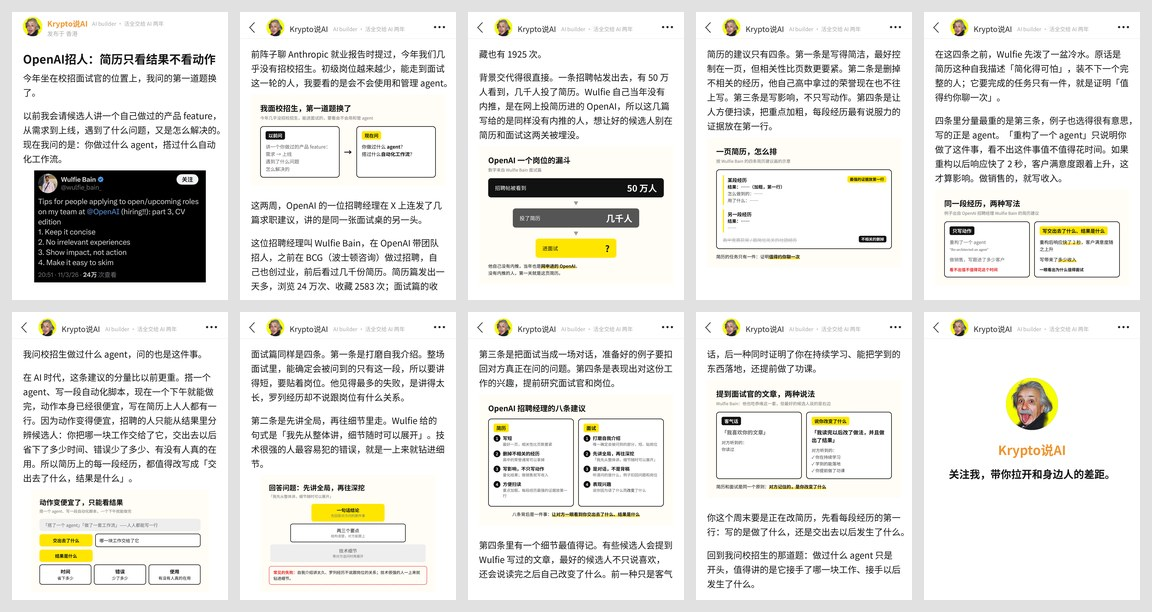
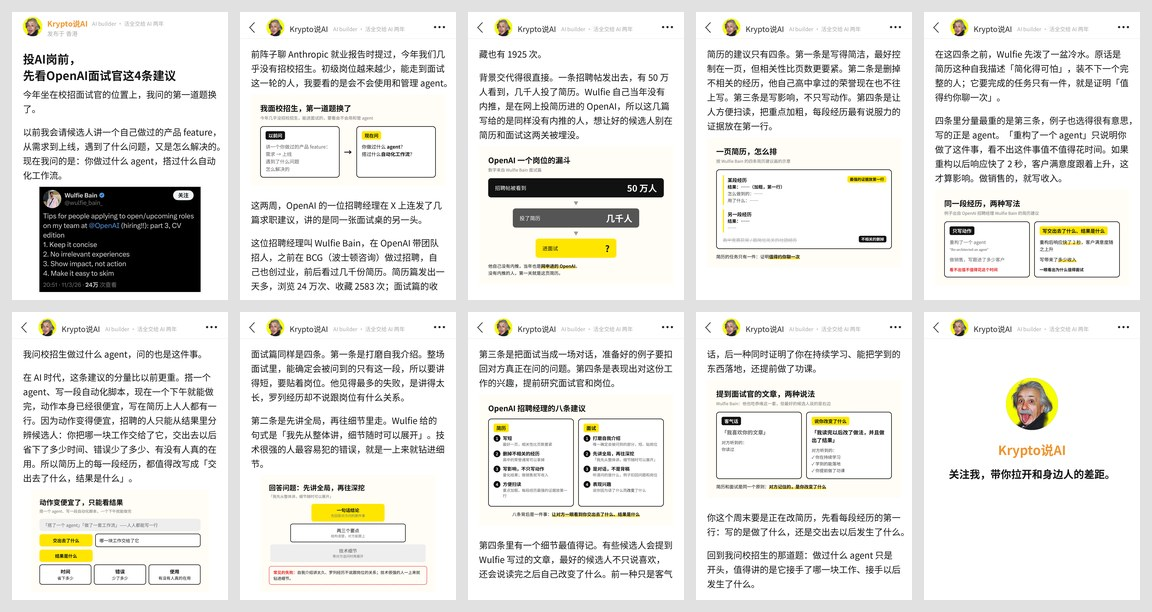
OpenAI 招聘建议稿：标题和首页 headline 改为「投AI岗前，先看OpenAI面试官这4条建议」
Claude-Session: https://claude.ai/code/session_01NaeRTdeFPRXkVgXK6PRjPx

Changed region(s): [[0.0, 0.0621, 0.1875, 0.4967]]

diff --git a/CLAUDE.md b/CLAUDE.md
@@ -8,7 +8,7 @@
 - **11-03 Claude 团队片和 FOMO 片的视频封面按新样式重做**（用户：主页上视频封面要和图文统一）：样式做成 `skills/vibe-knowledge-film/scripts/cover.py`（spec.json → 1080×1440），出了 `发布/2026-11-02_claude-code-team/封面_新版.png`（主画面 hook.jpg，看点：只给目标 / 功能随时准备删 / 人只看大局）和 `发布/2026-10-30_fomo-film/封面_新版.png`（主画面 15 秒沙发帧，看点：1 扇窗 vs 20 扇 / 全片 vs 预告片 / 错过会被记成亏了）。FOMO `film.js` 加了 `?clean` 和导出音效时跳过画面，全片在云端重渲（bgm.py 168.6 25.2 … 152.6 + mix.py）。Claude 团队片的 5 段原片和复刻音色旁白不在仓库里（mp4 / 音频不进 git），云端重渲不了，要成片得用户从之前收到的文件里发
 - **11-03 ADHD 知识短片《手电筒》（`/vibe-knowledge-film` 改造后第一条，60 秒横屏 1920×1080，A 鎏金，无配乐只有合成音效，`发布/2026-11-03_adhd-film/`）**：用户先定竖屏、随后改横屏，「先不加配乐」（`meta.drone: 0`）。一个故事：黑屋、书桌、一支手电筒（= 注意力），能锁在游戏上四小时（超专注），却照不到下周的截止日期，直到只剩一晚才掉进光里。顶部钩子行「ADHD：注意力真的不够吗？」，0 秒大字「注意力缺陷？」，7s「你猜？」，33s 截止卡变红（hit），40s 两个侧脸前额按年龄亮起（Shaw 2007：7.5 vs 10.5 岁），44s 20 支小手电筒一支乱晃（约 5%，Polanczyk 2007），47s 截止卡拆成三张小卡、「今晚：只写一段」滑进光里，51s 回到书桌，结尾「你不是不够努力，只是比别人晚一点看见。」。事实表 `facts.md`，分镜 `storyboard.md`（旧 2 分钟版 `storyboard_v1_2分钟旧规矩.md`），工程 `project/film.js`。9 帧拼图改了三轮（光柱压字幕线 → 手电筒挪到右侧中间；桌上物件的亮区用错了光圈；截止卡远处看不出红；脑图填充太快；小卡压字幕；结尾文献撞字幕）。**用户看第一版（11-03）**：开头沙沙声太强 → 是引擎底噪 `air` 在 drone 0 时没关、响度归一又抬了约 20 dB，已在 `skills/vibe-knowledge-film/engine/audio.py` 修（drone 0 时底噪关、只限峰）；要「更高级酷炫的特效展示 ADHD 原理」→ 第二版加 `project/fx.js`：体积光 + 尘埃 + 镜头光晕、分心物的红色波纹和发光触须、光柱被扳走时甩弯、超专注隧道视野和时间流线、日历景深和残影、截止卡撞进光里的冲击波 / 火星 / 抖动 / 色差、头里的神经网和成熟波、截止卡碎成 24 片再收拢成三张小卡、换场漏光（对照表在 storyboard.md「第二版」）。**封面（11-03）**：先做暗金竖版（`封面_暗金版.png`），用户看主页后定「视频封面要和图文封面风格尽可能相似，不然主页很乱」；先试了直接用 render_meme 首页（`封面_图文风格/`），用户又说「不必完全一样，可以有些不同，但整体风格要相似、不要突兀对比」→ 定稿 `封面.png`（`封面素材/cover_white.html`）：白底、页头和图文完全一致、黑色加粗大标题 + 品牌黄荧光笔、一行副题、大张片中画面带播放键和时长、三张看点小图配黑字。规则写进 vibe-knowledge-film SKILL「简报」第 5 条，以后视频封面都按这个家族出
 - **11-03 改造 `/vibe-knowledge-film`（用户给了一份「代码生成视频」简报，定为默认做法，原文在 `skills/vibe-knowledge-film/references/prompts.md` 第〇节，执行口径在 SKILL.md「简报」）**：默认 60 秒、直接交付 mp4、不停下来等确认、每阶段报进展；横屏 1920×1080 和竖屏 1080×1920 都支持（`new_film.py --portrait`，竖屏版式在 worlds.md 文末）；只讲透一个最反常识的真实故事；0–2 秒钩子大字第 0 帧就满亮（`K.headline`）、顶部常驻钩子行（`K.hookBar`）、每 10–15 秒一个转折 /「你猜？」、结尾一句触动人心；场景分前中背三层（`K.depth`）；3D 用 Three.js（`get_fonts.py --three` + `new_film.py --three`，`K.three`）；外观恢复 A 鎏金（电影感暗金）并设为默认，B 寓言、C 夜曲保留；配乐：用户的曲子用 `engine/beat.py` 测 BPM / 第一拍、按小节取整片长、从乐句开头截，`audio.py --from` 截取 + 结尾淡出；没有曲子用 `engine/score.py` 按 `meta.music`（默认 120 BPM、段落强弱、揭晓 drop）合成；音效加 `hit` / `whoosh` / `ping`，混音最后 `alimiter` 限峰；逐帧导出 jpg、`--sheet` 默认 9 帧 3×3 自查至少两轮；`scripts/deliver.py` 出总览图 + 源码 zip 并查 H.264 / AAC / 30fps。`render.py` 自动用云端 Chromium。冒烟测试：竖屏鎏金 + Three.js 立方体 + 合成配乐 8 秒片全流程通过（峰值 −1.2 dBFS），原 `fold_C` 横屏样片重渲一致、`--det` 通过。改动清单在 `INSTALL_NOTES.md`。ADHD 片见下一条
-- **11-04 OpenAI 招聘建议稿（meme-v2 第 11 篇，观察，价值信息 + 框架，`发布/2026-11-04_openai-hiring-tips/meme-v2版/`，7 页 + 名片卡，待用户看）**：素材是 OpenAI 招聘经理 Wulfie Bain 的 X 求职建议（简历篇 16.7 万浏览 1937 收藏、面试篇 1925 收藏；招聘帖 50 万人看到、几千人投，本人网申进的 OpenAI）。先问走了，用户答：价值是信息（OpenAI 怎么筛人）+ 框架（简历和面试的基本原则）；**「长期立场」不适用这篇**（front matter 写 `stance_line: 无`，meme-v2 check.py 放行「无」）；要强调的判断「AI 时代应该写你交出去了什么、结果是什么」。第 ①②⑥ 问没答，「我」用经历库 #26（校招面试题从 feature 全流程换成做过什么 agent），起法是自己工作里正在发生的事（上一篇是原话），开头、中段一句「问的也是这件事」、结尾回扣三次，回指 Anthropic 就业报告。图：`compare.png`（只写动作 vs 写交出去和结果，例子来自原文 agent / 销售）当首页图、`rules.png`（简历四条 + 面试四条）。check.py 0 ✗ 3 ⚠（1148 字差 52、图数把首页图没算进去、标题备选句式提示）。标题「OpenAI招人：简历只看结果不看动作」，备选「强烈建议投AI岗前看看OpenAI这篇。」「OpenAI一个岗位，50万人看到」。正文.txt 领取物是简历改写三行模板。日志 #11。**用户 11-04 发来简历篇推文截图（24 万查看、2583 收藏）要求放首页** → `编辑用/tweet.jpg` 当 hero（`hero_after: 1`、`hero_max: 820`），`compare.png` 挪进正文第三条之后，正文里的浏览 / 收藏数按截图更新，8 页，前一版存 `draft_v1_首页对照卡.md`。用户再改：截图下面截掉一点、首页要有文字 + 截图 → 截图裁掉「显示翻译」、空行、「Some (pretty cool) roles…」和互动栏，只留头像、四条建议、查看数；第二段在「自动化工作流。」后断开，首页 = 标题 + 两段 + 截图（`hero_after: 2`、`hero_max: 560`）。**用户再定：前几页没图的要补可视化、标题要更有钩子** → 新加 `question.png`（面试题以前问 / 现在问）、`funnel.png`（50 万看到 → 几千人投 → 进面试）、`cv.png`（一页简历怎么排）、`result.png`（动作变便宜，只能看交出去了什么 + 时间 / 错误 / 使用）、`pyramid.png`（先讲全局再深挖 + 常见失败）、`praise.png`（客气话 vs 说你改变了什么），9 页正文每页都有图 + 名片卡；为不让末页孤行删了「他也吃恭维」和「面试里说的和简历上写的…」两句（图里已有），前一版存 `draft_v2_前几页无图.md`。标题备选换成带钩子的六条（推荐「OpenAI招聘经理：你的简历写错了一半」），主标题待用户定。**待用户**：Altman × Collison、Dan Koe 两篇的先问还没答
+- **11-04 OpenAI 招聘建议稿（meme-v2 第 11 篇，观察，价值信息 + 框架，`发布/2026-11-04_openai-hiring-tips/meme-v2版/`，7 页 + 名片卡，待用户看）**：素材是 OpenAI 招聘经理 Wulfie Bain 的 X 求职建议（简历篇 16.7 万浏览 1937 收藏、面试篇 1925 收藏；招聘帖 50 万人看到、几千人投，本人网申进的 OpenAI）。先问走了，用户答：价值是信息（OpenAI 怎么筛人）+ 框架（简历和面试的基本原则）；**「长期立场」不适用这篇**（front matter 写 `stance_line: 无`，meme-v2 check.py 放行「无」）；要强调的判断「AI 时代应该写你交出去了什么、结果是什么」。第 ①②⑥ 问没答，「我」用经历库 #26（校招面试题从 feature 全流程换成做过什么 agent），起法是自己工作里正在发生的事（上一篇是原话），开头、中段一句「问的也是这件事」、结尾回扣三次，回指 Anthropic 就业报告。图：`compare.png`（只写动作 vs 写交出去和结果，例子来自原文 agent / 销售）当首页图、`rules.png`（简历四条 + 面试四条）。check.py 0 ✗ 3 ⚠（1148 字差 52、图数把首页图没算进去、标题备选句式提示）。标题「OpenAI招人：简历只看结果不看动作」，备选「强烈建议投AI岗前看看OpenAI这篇。」「OpenAI一个岗位，50万人看到」。正文.txt 领取物是简历改写三行模板。日志 #11。**用户 11-04 发来简历篇推文截图（24 万查看、2583 收藏）要求放首页** → `编辑用/tweet.jpg` 当 hero（`hero_after: 1`、`hero_max: 820`），`compare.png` 挪进正文第三条之后，正文里的浏览 / 收藏数按截图更新，8 页，前一版存 `draft_v1_首页对照卡.md`。用户再改：截图下面截掉一点、首页要有文字 + 截图 → 截图裁掉「显示翻译」、空行、「Some (pretty cool) roles…」和互动栏，只留头像、四条建议、查看数；第二段在「自动化工作流。」后断开，首页 = 标题 + 两段 + 截图（`hero_after: 2`、`hero_max: 560`）。**用户再定：前几页没图的要补可视化、标题要更有钩子** → 新加 `question.png`（面试题以前问 / 现在问）、`funnel.png`（50 万看到 → 几千人投 → 进面试）、`cv.png`（一页简历怎么排）、`result.png`（动作变便宜，只能看交出去了什么 + 时间 / 错误 / 使用）、`pyramid.png`（先讲全局再深挖 + 常见失败）、`praise.png`（客气话 vs 说你改变了什么），9 页正文每页都有图 + 名片卡；为不让末页孤行删了「他也吃恭维」和「面试里说的和简历上写的…」两句（图里已有），前一版存 `draft_v2_前几页无图.md`。标题备选换成带钩子的六条（推荐「OpenAI招聘经理：你的简历写错了一半」），用户定标题 / 首页 headline「投AI岗前，先看OpenAI面试官这4条建议」（22 字，超 20 字上限 2 字，发布时注意）。**待用户**：Altman × Collison、Dan Koe 两篇的先问还没答
 - **11-03 Google I/O 假名言稿（meme-v2 第 10 篇，观察，value 框架，立场 D，`发布/2026-11-03_google-io-sundar/meme-v2版/`，6 页 + 名片卡，待用户看）**：素材是用户发来的 X 推文打包（@AmitSha77280075 剪的 29 分钟 I/O 2026 主题演讲，Sundar / Demis / Varun，faster-whisper 转录 + 中文意译 + 20 张睁眼截图）。推文标题那句「IF YOU DON'T LEARN HOW TO ORCHESTRATE AGENTS NOW, YOU'LL SPEND 2027 CATCHING UP…」原片里搜不到（orchestrate / 2027 / catching up 都没有，只有 Varun 一句产品描述「multi-agent orchestration」），记在 `编辑用/source.md`。先问走了，用户答「你定，用原文对照那句假名言」。起法是一句原话直接引（上一篇是实测）。骨架：假名言 + 他没说过 → 转录里搜不到、唯一一处编排是产品描述（回指 a16z「差距以周为单位」是 Andreessen 原话）→ 真实 Sundar 克制（token 两年三百多倍、自己说「刷 token 有几分道理」、「做 builder 的好时代」）→ 内部 token 3 月 5000 亿 → 3 万亿 / 天、Sundar 用 Antigravity 修 bug → 93 子智能体 12 小时 < 1000 美元做出 OS 核心、跑 Doom 失败缺驱动 → 判断（编排已经便宜，拉开差距的是看出缺哪一块的人，截止日期 + 一个下午卖的是便宜的那一半）→ 你那段 → 结尾问「93 个 agent 都跑不起一局 Doom，一个下午学会的是哪一部分」。stance_line D，cost 无，「我」只有这次搜转录。图：`shots/01_0006.jpg` 当 hero、`11_0733.jpg`、`compare.png`（推文 vs 演讲原话）。check.py 0 ✗ 6 ⚠（969 字、英文专名 27 / 千字、数字 21 / 千字、开头锚点多都是演讲数据稿常态；因果词 5.2；「你」段以「如果你」起没被认出）。标题「谷歌CEO没说过的这句话，我查了原片」，备选「谷歌I/O这段原片，强烈建议看完。」「谷歌这场演讲，很多人只看了标题。」。正文.txt 领取物是核对名言三步。日志 #10
 - **11-02 五个金融公式稿（meme-v2 第 9 篇，观察，value 框架，立场 A，`发布/2026-11-02_five-equations/meme-v2版/`，8 页，待用户看）**：素材是用户发来的 X 长文打包（Lumen @lumenxbt 7-28《The Five Equations That Quietly Run Your Entire Financial Life》，1440 万浏览、1.18 万收藏，复利 / 72 法则 / 现值 / 几何平均 / 实际收益）。先问走了，用户答「你定，用 AI 重算那个角度可以」。「我」只用这次真做的操作：把全文交给 Claude 重算，查出两处错（25 岁一次投 1 万 vs 40 岁起每年投 1 万，8% 下是 21.7 万 vs 约 79 万，原文说前者多近一倍，结论反了；+50/−50/+50 正文写「接近 +7%」，同段和配图是 4%），2% 管理费吃掉近半核对是对的（核对记录在 `编辑用/source.md`）。stance「核对一个数字的成本被 AI 降到一分钟，只收藏不重算等于把判断交给写文章的人」；cost 填「无」（没问出代价）。起法是一次实测。图：原文封面当 hero、`five.png` 五个公式归谁管、`recheck.png` 原文 vs 重算、原文几何平均配图（写的就是 4%）。正文.txt 领取物是重算提示词。check.py 0 ✗ 3 ⚠（1118 字差 82、数字 49 / 千字是公式稿常态、无「你」段可选）。标题「理财爆文让Claude重算，错了两处」，备选「强烈建议理财文章都让Claude算一遍。」「理财公式这篇，看来很多人没算过。」。日志 #9。注意：这篇是理财题，跟 AI 的连接只在「让 AI 重算」这一层
 - **11-02 Claude Code 团队对谈公众号稿（学 Z Finance 版式，`发布/2026-11-02_claude-code-team/公众号版/`，正文 4261 字 7 图，11-02 已发布）**：用户发 Z Finance《深度｜宇树上市首份季报》7 张截图要学格式，拆解在 `对标/Z_Finance/拆解.md`（标题「栏目｜主体：判断一，判断二」、导语一句判断 → 事实锚 → 位置、`01` 灰色大数字 + 红色结论句小标题、表格做成图 + 斜体「图表备注」、中性编辑部口吻）。`prep_wechat.py` 加 `--style zf` 出这套版式。素材用同一段对谈全文转录（不只是解说片那五段原声），写稿前先问沿用解说片那轮回答（不放用户经历、立场 D、个人立场只在结尾一句），没再问。说话人按截帧核：Robert 戴眼镜绿外套、Sid 米色夹克、Thariq 有胡子；工作流 / 验证几段对不上人的写「一位成员」。五节：只给目标 / 功能随时准备删（待办清单、提问工具）/ 循环与工作流（扇出 + 三视角对抗审查）/ 审代码只看大局 + Claude Tag 看不到独白 / 工程师还剩什么。图：红黑撕纸封面（`编辑用/figs.js`，截图正片叠底）、两张对照表、扇出流程图、三张人物截图；`预览_手机长图.png` 是手机宽度排版。标题「深度｜Claude Code 团队这一年：不再逐条下指令，人只管目标和大局」。**用户 11-02 定：公众号名叫 K说AI，主题色是 Krypto说AI 头像黄 #FFE600**（记进 `账号/档案.md`「公众号」节）→ 封面改黄底撕纸、编号块黄底黑字、小标题黑色、流程图强调黄，全号不用红；prep_wechat 作者默认、render_wechat 账号名默认都改「K说AI」。**用户 11-02 加品牌横幅**：`skills/x-wechat/assets/banner.png`（1080×236，黄底 + 头像 + 「K说AI」+ slogan + 右侧黑底黄 K，`scripts/make_banner.js` 生成），`--style zf` 自动放在正文最顶上（`--no-banner` 关）。**栏目名用户 11-02 定「深度」**（公众号标题都写「深度｜主体：判断一，判断二」）。**11-02 已发布**（K说AI 公众号第一篇，用户在网页后台手动发：Mac 上还没克隆仓库、没配 `~/.config/krypto-publish.env`，所以没走 publish.py；手动发布包 = 标题 / 摘要 / 封面 / 正文.html + 按顺序编号的配图 + 发布步骤）。日志 series 记 `wechat`。数据待回填。**用户 11-02 定：公众号正文底部不写「AI 辅助 / AI 生成」**，文末改成 Z Finance 式「引用：[1] 出处」灰色斜体列表（prep_wechat `--style zf` 认「引用：」和「[n]」行），AI 标注只在后台创作来源里勾。**11-02 Mac mini 公众号发布已配好**：仓库在 `~/youtube-xhs`（gh 已登录），`~/.config/krypto-publish.env` 填了 WECHAT_APPID / SECRET，IP 白名单加了 119.247.152.228，`publish.py check` ✓（X 四项没配）。以后交稿给用户两条命令：`cd ~/youtube-xhs && git pull`、`python3 skills/x-wechat/scripts/publish.py wechat 发布/<目录>`；报 40164 就把新 IP 加白名单

diff --git a/发布/2026-11-04_openai-hiring-tips/meme-v2版/编辑用/draft.md b/发布/2026-11-04_openai-hiring-tips/meme-v2版/编辑用/draft.md
@@ -1,5 +1,5 @@
 ---
-title: OpenAI招人：简历只看结果不看动作
+title: 投AI岗前，先看OpenAI面试官这4条建议
 value: 信息 + 框架
 stance: AI 时代搭一个 agent、跑一套工作流已经是一个下午的事，动作人人写得出来；简历和面试里能把人区分开的，是你把哪一块工作交了出去、交出去以后结果是什么
 stance_line: 无
@@ -7,7 +7,7 @@ reader: 周末正在改简历、准备投一家 AI 公司的人
 cost: 无
 keyword: OpenAI
 keywords: OpenAI, 简历, 面试, 求职, 校招, agent
-headline: OpenAI招人：简历只看结果不看动作
+headline: 投AI岗前，|先看OpenAI面试官这4条建议
 hero: tweet.jpg
 hero_after: 2
 hero_max: 560
